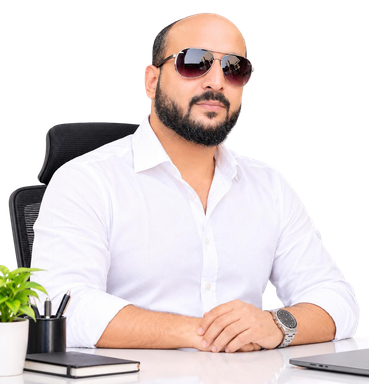
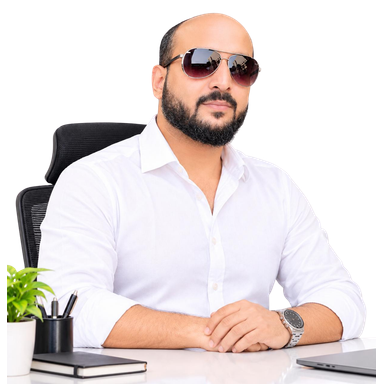
feat(partner): enlarge founder portraits with pure white background and gold border

diff --git a/src/app/partner-with-us/page.tsx b/src/app/partner-with-us/page.tsx
@@ -632,8 +632,8 @@ export default function PartnerWithUsPage() {
           {/* Founders Profiles */}
           <div className="grid grid-cols-1 md:grid-cols-2 gap-8 max-w-4xl mx-auto">
             {/* Arpit Agarwal */}
-            <div className="rounded-3xl bg-gradient-to-b from-[#006E6E] to-[#268672] text-white border border-white/25 shadow-xl p-6 sm:p-8 flex flex-col items-center text-center space-y-4 hover:border-[#FFDE59]/60 hover:shadow-2xl transition-all group">
-              <div className="relative w-36 h-36 rounded-full overflow-hidden border-4 border-[#FFDE59] shadow-xl group-hover:scale-105 transition-transform">
+            <div className="rounded-3xl bg-gradient-to-b from-[#006E6E] to-[#268672] text-white border border-white/25 shadow-xl p-6 sm:p-8 flex flex-col items-center text-center space-y-5 hover:border-[#FFDE59]/60 hover:shadow-2xl transition-all group">
+              <div className="relative w-48 h-48 sm:w-56 sm:h-56 rounded-full overflow-hidden bg-white border-4 border-[#FFDE59] shadow-2xl ring-4 ring-white/15 group-hover:scale-105 transition-transform duration-300 shrink-0">
                 <Image
                   src="/images/partner/arpit-agarwal.png"
                   alt="Arpit Agarwal - Founder, Reforbs"
@@ -642,11 +642,11 @@ export default function PartnerWithUsPage() {
                 />
               </div>
 
-              <div>
-                <h3 className="text-xl sm:text-2xl font-black font-heading text-white tracking-tight">
+              <div className="space-y-1">
+                <h3 className="text-2xl sm:text-3xl font-black font-heading text-white tracking-tight">
                   Arpit Agarwal
                 </h3>
-                <span className="px-3.5 py-1 rounded-full bg-black/25 backdrop-blur-md border border-white/20 text-xs font-black uppercase text-[#FFDE59] tracking-wider inline-block mt-1 shadow-sm">
+                <span className="px-4 py-1 rounded-full bg-black/25 backdrop-blur-md border border-white/20 text-xs font-black uppercase text-[#FFDE59] tracking-wider inline-block shadow-sm">
                   Founder
                 </span>
               </div>
@@ -655,14 +655,14 @@ export default function PartnerWithUsPage() {
                 &ldquo;Reforbs was born out of personal conviction. Having experienced sterile, restrictive rentals firsthand, we set out to build spaces where freedom, community, and peace of mind coexist harmoniously.&rdquo;
               </p>
 
-              <div className="pt-3 border-t border-white/20 text-[11px] font-bold text-white/80">
+              <div className="pt-3 border-t border-white/20 text-[11px] font-bold text-white/80 w-full">
                 Product Vision • Community Architecture • Brand Culture
               </div>
             </div>
 
             {/* Moinkhan Y Pathan */}
-            <div className="rounded-3xl bg-gradient-to-b from-[#006E6E] to-[#268672] text-white border border-white/25 shadow-xl p-6 sm:p-8 flex flex-col items-center text-center space-y-4 hover:border-[#FFDE59]/60 hover:shadow-2xl transition-all group">
-              <div className="relative w-36 h-36 rounded-full overflow-hidden border-4 border-yellow-300 shadow-xl group-hover:scale-105 transition-transform">
+            <div className="rounded-3xl bg-gradient-to-b from-[#006E6E] to-[#268672] text-white border border-white/25 shadow-xl p-6 sm:p-8 flex flex-col items-center text-center space-y-5 hover:border-[#FFDE59]/60 hover:shadow-2xl transition-all group">
+              <div className="relative w-48 h-48 sm:w-56 sm:h-56 rounded-full overflow-hidden bg-white border-4 border-[#FFDE59] shadow-2xl ring-4 ring-white/15 group-hover:scale-105 transition-transform duration-300 shrink-0">
                 <Image
                   src="/images/partner/moinkhan-pathan.png"
                   alt="Moinkhan Y Pathan - Founder, Reforbs"
@@ -671,11 +671,11 @@ export default function PartnerWithUsPage() {
                 />
               </div>
 
-              <div>
-                <h3 className="text-xl sm:text-2xl font-black font-heading text-white tracking-tight">
+              <div className="space-y-1">
+                <h3 className="text-2xl sm:text-3xl font-black font-heading text-white tracking-tight">
                   Moinkhan Y Pathan
                 </h3>
-                <span className="px-3.5 py-1 rounded-full bg-black/25 backdrop-blur-md border border-white/20 text-xs font-black uppercase text-[#FFDE59] tracking-wider inline-block mt-1 shadow-sm">
+                <span className="px-4 py-1 rounded-full bg-black/25 backdrop-blur-md border border-white/20 text-xs font-black uppercase text-[#FFDE59] tracking-wider inline-block shadow-sm">
                   Founder
                 </span>
               </div>
@@ -684,7 +684,7 @@ export default function PartnerWithUsPage() {
                 &ldquo;Every property we operate is managed with institutional precision. Our commitment to property owners is unwavering: absolute transparency, punctual payments, and the highest standards of physical upkeep.&rdquo;
               </p>
 
-              <div className="pt-3 border-t border-white/20 text-[11px] font-bold text-white/80">
+              <div className="pt-3 border-t border-white/20 text-[11px] font-bold text-white/80 w-full">
                 Hospitality Operations • Owner Relations • Expansion Strategy
               </div>
             </div>
